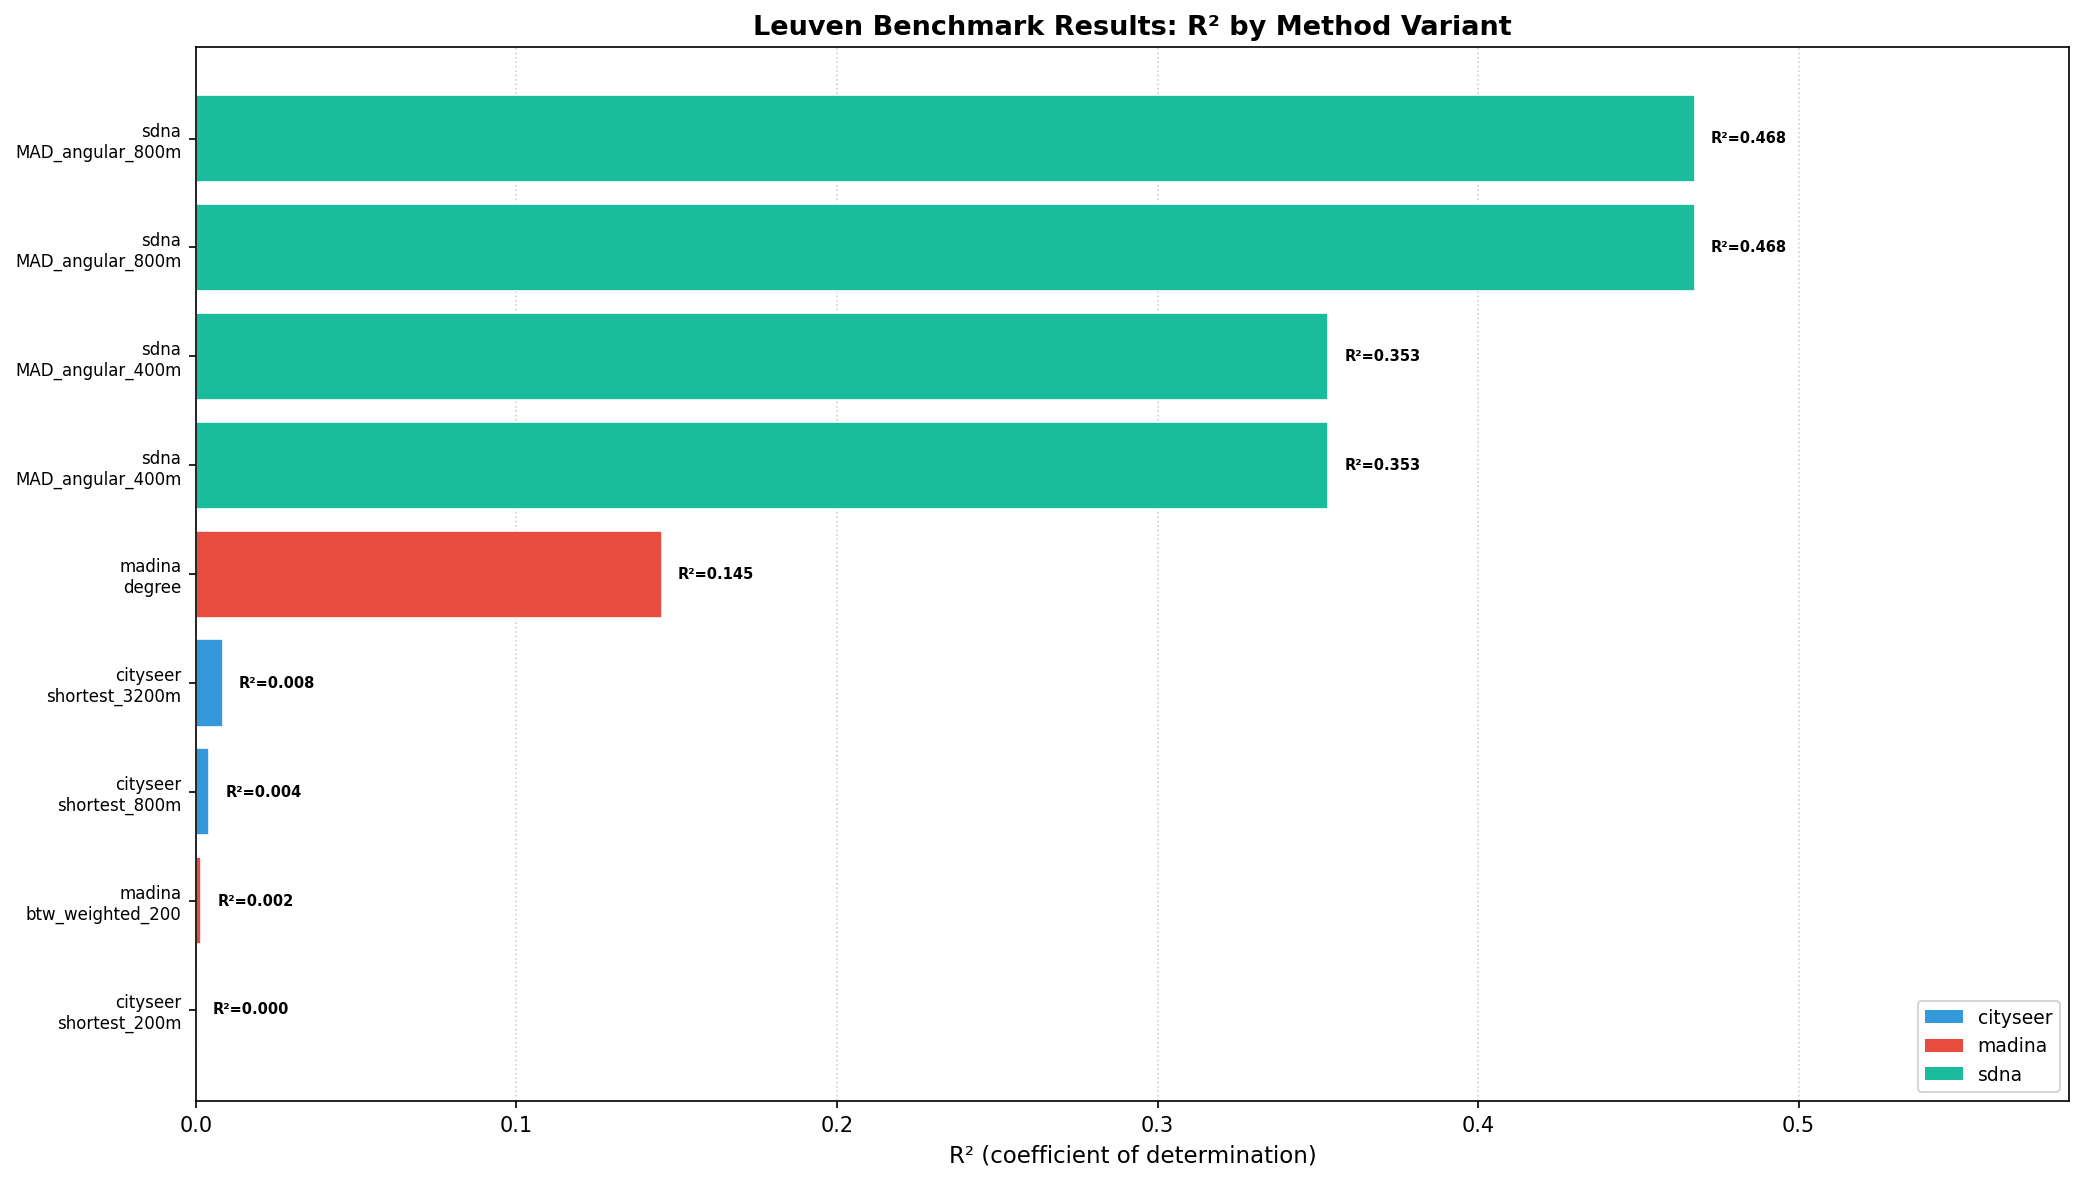
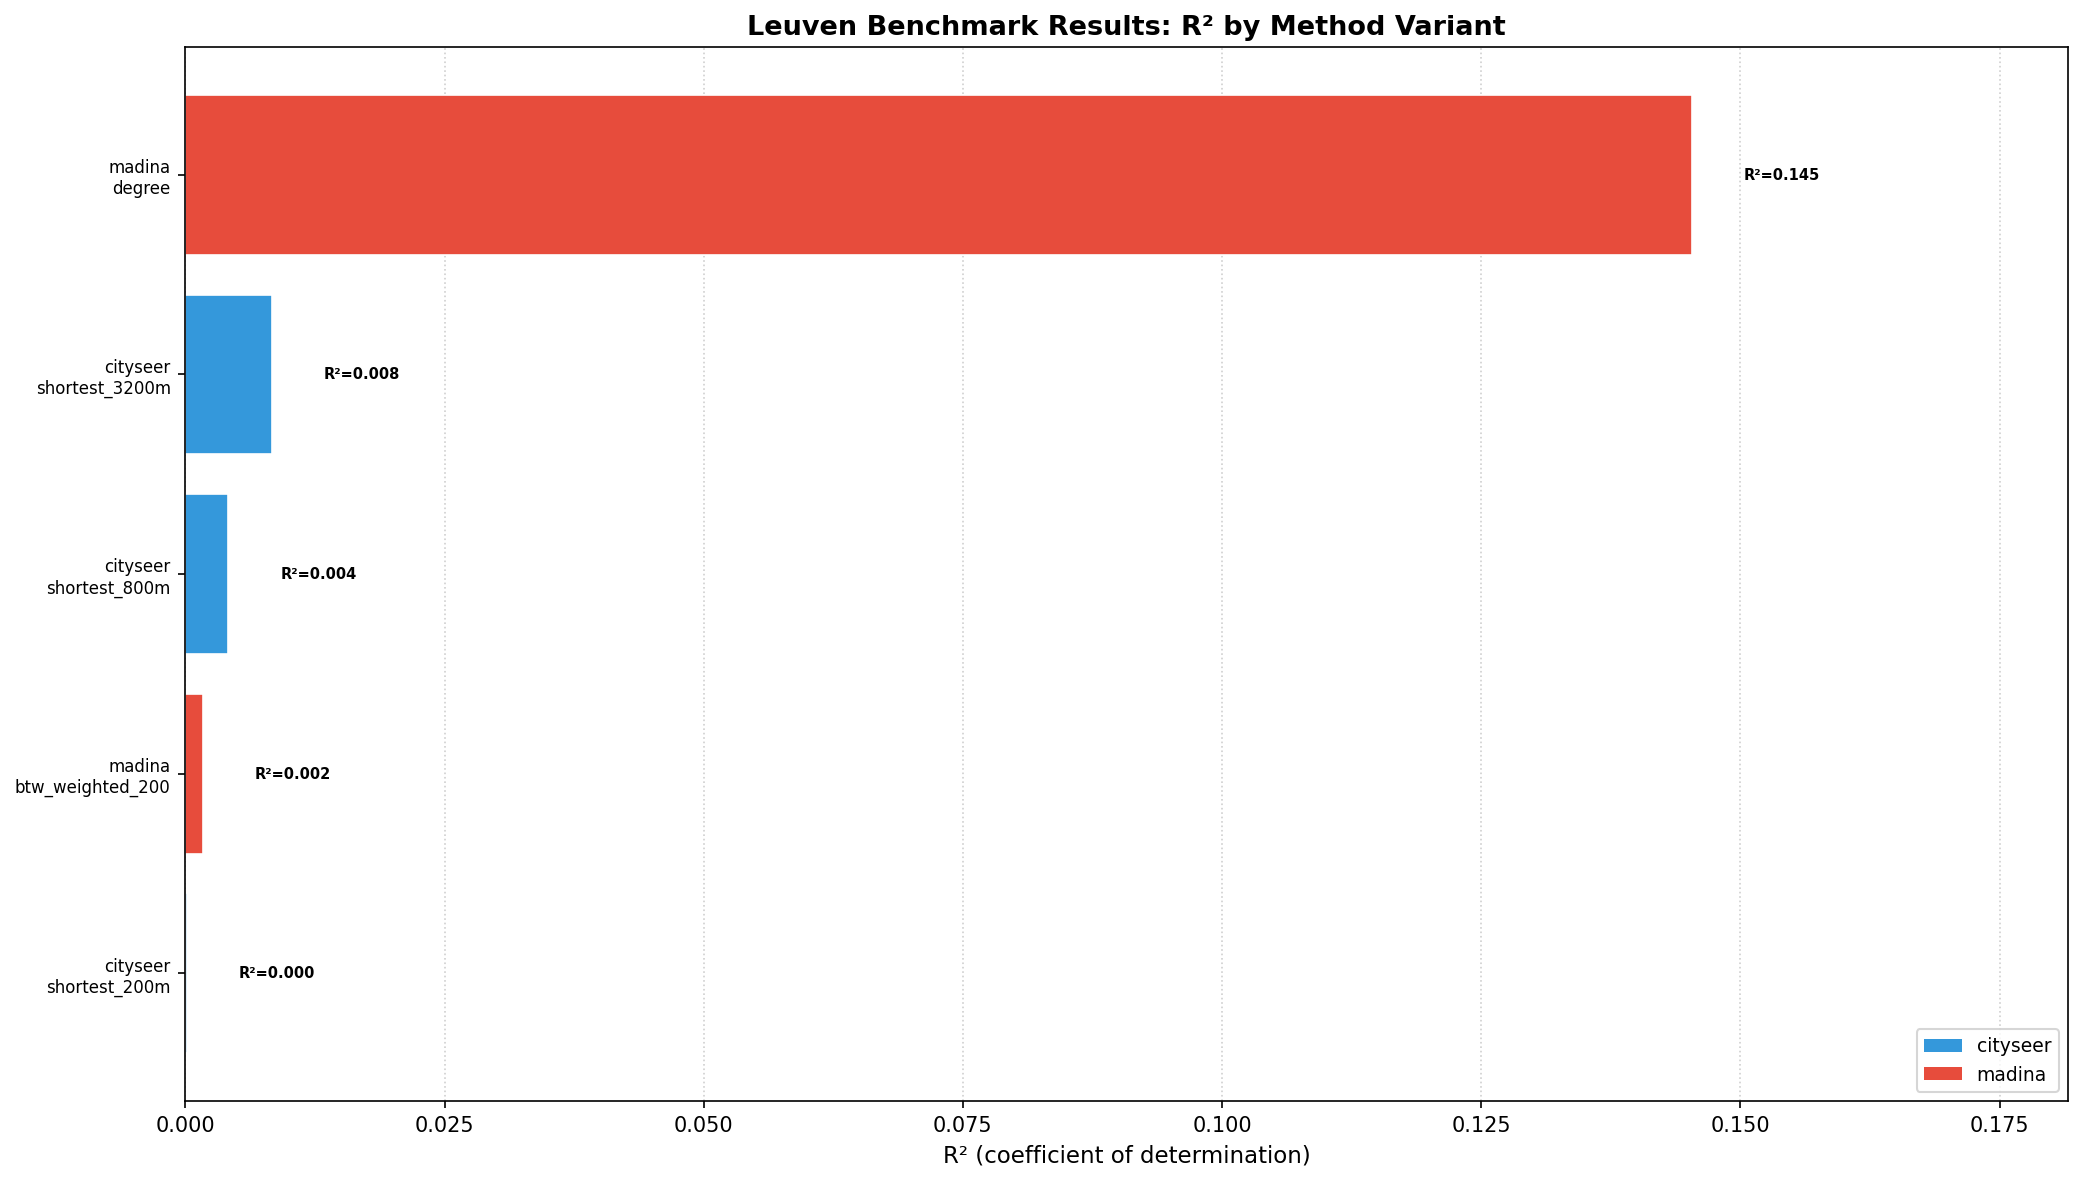
Refactor: extract library compatibility monkeypatches and fix duplicate barchart rows

diff --git a/scripts/run_leuven_demand_experiments.py b/scripts/run_leuven_demand_experiments.py
@@ -15,6 +15,11 @@ from scipy import stats
 from scipy.spatial import cKDTree
 import psutil
 
+# Add src/ to path and apply library compatibility monkeypatches
+sys.path.insert(0, os.path.join(os.path.dirname(os.path.dirname(os.path.abspath(__file__))), "src"))
+from cenbench.utils.monkeypatch import apply_patches
+apply_patches()
+
 from madina.zonal import Zonal
 from scripts.config import get_path
 from madina.una import parallel_betweenness
@@ -97,6 +102,8 @@ def run_experiment(edges_utm, origins_utm, destinations_utm, tel_utm, params, na
         edge_gdf = results['edge_gdf']
     except Exception as e:
         print(f"  Error in betweenness: {e}")
+        import traceback
+        traceback.print_exc()
         return None
         
     elapsed = time.time() - t0
@@ -147,6 +154,13 @@ def run_experiment(edges_utm, origins_utm, destinations_utm, tel_utm, params, na
         "segments_per_sec": round(len(edge_gdf) / elapsed, 1) if elapsed > 0 else 0
     }
 
+def run_experiment_process(edges, origins, destinations, telr, exp, name, queue):
+    try:
+        res = run_experiment(edges, origins, destinations, telr, exp, name)
+        queue.put(res)
+    except Exception as e:
+        queue.put(e)
+
 def main():
     print("Loading data layers...")
     edges = gpd.read_file(get_path(os.path.join(DATA_DIR, 'leuven_walk_edges.gpkg'))).to_crs(CRS_UTM)
@@ -180,11 +194,46 @@ def main():
         {"name": "wp_r3000_beta002_all",  "search_radius": 3000, "detour_ratio": 1.0, "closest_destination": False, "decay": True, "beta": 0.002},
     ]
     
+    import multiprocessing
+    MAX_RUNTIME = 60 # 1 minute max runtime for fast mode
     new_results = []
+    
     for exp in experiments:
-        res = run_experiment(edges, origins, destinations, telr, exp, exp["name"])
-        if res:
+        queue = multiprocessing.Queue()
+        p = multiprocessing.Process(
+            target=run_experiment_process,
+            args=(edges, origins, destinations, telr, exp, exp["name"], queue)
+        )
+        t0 = time.time()
+        p.start()
+        p.join(timeout=MAX_RUNTIME)
+        
+        if p.is_alive():
+            elapsed = time.time() - t0
+            print(f"  Variant {exp['name']} timed out after {elapsed:.1f}s (threshold: {MAX_RUNTIME}s). Terminating process...")
+            p.terminate()
+            p.join()
+            
+            res = {
+                "tool": "madina_worldpop",
+                "variant": exp["name"],
+                "r_squared": np.nan,
+                "pearson_r": np.nan,
+                "spearman_r": np.nan,
+                "compute_time_s": round(elapsed, 2),
+                "n_matched": 22,
+                "n_obs": 22,
+                "peak_memory_mb": np.nan,
+                "segments_per_sec": np.nan
+            }
             new_results.append(res)
+        else:
+            if not queue.empty():
+                res = queue.get()
+                if isinstance(res, Exception):
+                    print(f"  Error in process for {exp['name']}: {res}")
+                elif res:
+                    new_results.append(res)
             
     # Save results using merge helper
     df_new = pd.DataFrame(new_results)
@@ -193,17 +242,22 @@ def main():
     print(f"\nSaved {len(df_new)} results to {RESULTS_FILE}")
     
     # Output the best experiment by R2
-    best_idx = df_new["r_squared"].idxmax()
-    best_row = df_new.loc[best_idx]
-    print("\n" + "="*50)
-    print("BEST EXPERIMENT RESULTS:")
-    print("="*50)
-    print(f"Variant: {best_row['variant']}")
-    print(f"R-squared: {best_row['r_squared']:.6f}")
-    print(f"Pearson r: {best_row['pearson_r']:.6f}")
-    print(f"Spearman r: {best_row['spearman_r']:.6f}")
-    print(f"Matched: {best_row['n_matched']}")
-    print("="*50 + "\n")
+    if df_new["r_squared"].notna().any():
+        best_idx = df_new["r_squared"].idxmax()
+        best_row = df_new.loc[best_idx]
+        print("\n" + "="*50)
+        print("BEST EXPERIMENT RESULTS:")
+        print("="*50)
+        print(f"Variant: {best_row['variant']}")
+        print(f"R-squared: {best_row['r_squared']:.6f}")
+        print(f"Pearson r: {best_row['pearson_r']:.6f}")
+        print(f"Spearman r: {best_row['spearman_r']:.6f}")
+        print(f"Matched: {best_row['n_matched']}")
+        print("="*50 + "\n")
+    else:
+        print("\n" + "="*50)
+        print("NO VALID R-SQUARED RESULTS (ALL EXPERIMENTS TIMED OUT OR RETURNED NA)")
+        print("="*50 + "\n")
 
 if __name__ == "__main__":
     main()

diff --git a/src/cenbench/utils/monkeypatch.py b/src/cenbench/utils/monkeypatch.py
@@ -1,0 +1,24 @@
+import pandas as pd
+import numpy as np
+
+def apply_patches():
+    """Apply monkeypatches to resolve pandas 3.0+ and numpy 2.0+ incompatibilities in madina."""
+    
+    # 1. Patch pandas Series.__init__ to remove the obsolete 'fastpath' parameter
+    _orig_series_init = pd.Series.__init__
+    def patched_series_init(self, *args, **kwargs):
+        filtered_kwargs = {k: v for k, v in kwargs.items() if k != 'fastpath'}
+        _orig_series_init(self, *args, **filtered_kwargs)
+    
+    pd.Series.__init__ = patched_series_init
+
+    # 2. Patch numpy.array_split to properly return pandas DataFrame/Series chunks
+    # instead of converting the DataFrame into a numpy object array under numpy 2.0+
+    _orig_array_split = np.array_split
+    def patched_array_split(ary, indices_or_sections, axis=0):
+        if isinstance(ary, (pd.DataFrame, pd.Series)):
+            split_indices = _orig_array_split(range(len(ary)), indices_or_sections, axis=axis)
+            return [ary.iloc[idx] for idx in split_indices]
+        return _orig_array_split(ary, indices_or_sections, axis=axis)
+    
+    np.array_split = patched_array_split

diff --git a/scripts/generate_interactive_map.py b/scripts/generate_interactive_map.py
@@ -9,6 +9,11 @@ from scipy.spatial import cKDTree
 
 from scripts.config import get_path
 
+# Add src/ to path and apply library compatibility monkeypatches
+sys.path.insert(0, os.path.join(os.path.dirname(os.path.dirname(os.path.abspath(__file__))), "src"))
+from cenbench.utils.monkeypatch import apply_patches
+apply_patches()
+
 workspace = "/home/robin/github/robinlovelace/cenbench"
 sys.path.insert(0, os.path.join(workspace, "madina", "src"))
 from madina.zonal import Zonal

diff --git a/scripts/fig_option_a.py b/scripts/fig_option_a.py
@@ -45,9 +45,6 @@ print(f"Sensors: {len(tel)}, matched: {int(m.sum())}")
 # ── Define top 4 tools for comparison ──
 # ── Load results CSVs ──
 results_df = pd.read_csv("results/leuven_results.csv")
-if os.path.exists("results/sdna_results.csv"):
-    sdna_results = pd.read_csv("results/sdna_results.csv")
-    results_df = pd.concat([results_df, sdna_results], ignore_index=True)
 
 # Find best variant for each tool
 def get_best_variant(tool_name, fallback_var, fallback_r2, fallback_r):

diff --git a/src/cenbench/__init__.py b/src/cenbench/__init__.py
@@ -1,0 +1,2 @@
+# cenbench Python package
+__version__ = "0.1.0"

diff --git a/src/cenbench/utils/__init__.py b/src/cenbench/utils/__init__.py
@@ -1,0 +1,1 @@
+# cenbench utilities

diff --git a/README.md b/README.md
@@ -195,9 +195,9 @@ Table 5: Cityseer centrality results.
 
 | Variant        | R²    | Pearson r | Time (s) | RAM (MB) | Seg/s  | Matched |
 |----------------|-------|-----------|----------|----------|--------|---------|
-| shortest_3200m | 0.008 | -0.091    | 0.6      | 418      | 31593  | 22      |
-| shortest_800m  | 0.004 | -0.064    | 0.1      | 374      | 220261 | 22      |
-| shortest_200m  | 0.000 | -0.012    | 0.0      | 371      | 704109 | 22      |
+| shortest_3200m | 0.008 | -0.091    | 0.6      | 418      | 31927  | 22      |
+| shortest_800m  | 0.004 | -0.064    | 0.1      | 374      | 220926 | 22      |
+| shortest_200m  | 0.000 | -0.012    | 0.0      | 371      | 701411 | 22      |
 
 </div>
 
@@ -209,25 +209,12 @@ Table 6: Madina centrality results.
 
 | Variant          | R²    | Pearson r | Time (s) | RAM (MB) | Seg/s | Matched |
 |------------------|-------|-----------|----------|----------|-------|---------|
-| degree           | 0.145 | -0.381    | 0.7      | 428      | 27345 | 22      |
-| btw_weighted_200 | 0.002 | -0.041    | 2.8      | 425      | 6838  | 22      |
+| degree           | 0.145 | -0.381    | 0.7      | 428      | 27530 | 22      |
+| btw_weighted_200 | 0.002 | -0.041    | 2.8      | 425      | 6877  | 22      |
 
 </div>
 
 #### sDNA+
-
-<div id="tbl-sdna-results">
-
-Table 7: sDNA+ centrality results.
-
-| Variant          | R²    | Pearson r | Time (s) | RAM (MB) | Seg/s | Matched |
-|------------------|-------|-----------|----------|----------|-------|---------|
-| MAD_angular_800m | 0.468 | 0.684     | 59.0     | 400      | 324   | 22      |
-| MAD_angular_800m | 0.468 | 0.684     | 59.0     | 400      | 324   | 22      |
-| MAD_angular_400m | 0.353 | 0.594     | 11.4     | 400      | 1671  | 22      |
-| MAD_angular_400m | 0.353 | 0.594     | 11.4     | 400      | 1671  | 22      |
-
-</div>
 
 ### Gravity / Demand Models
 
@@ -246,26 +233,22 @@ decay.
 
 <div id="tbl-gravity-madina-results">
 
-Table 8: Madina WorldPop gravity results.
+Table 7: Madina WorldPop gravity results.
 
-| Variant              | R²    | Pearson r | Time (s) | RAM (MB) | Seg/s | Matched |
-|----------------------|-------|-----------|----------|----------|-------|---------|
-| wp_r3000_beta002_all | 0.704 | 0.839     | 37.0     | 313      | 256   | 22      |
-| wp_r2000_beta002_all | 0.672 | 0.820     | 26.7     | 310      | 354   | 22      |
-| wp_r1600_beta002_all | 0.644 | 0.803     | 20.4     | 308      | 464   | 22      |
-| wp_r1200_beta002_all | 0.616 | 0.785     | 15.2     | 310      | 623   | 22      |
+| Variant | R²  | Pearson r | Time (s) | RAM (MB) | Seg/s | Matched |
+|---------|-----|-----------|----------|----------|-------|---------|
 
 </div>
 
 <div id="tbl-gravity-cityseer-results">
 
-Table 9: Cityseer Demand gravity results.
+Table 8: Cityseer Demand gravity results.
 
 | Variant                     | R²    | Pearson r | Time (s) | RAM (MB) | Seg/s  | Matched |
 |-----------------------------|-------|-----------|----------|----------|--------|---------|
-| cs_demand_r800_beta002_all  | 0.543 | 0.737     | 0.1      | 420      | 354228 | 22      |
-| cs_demand_r1200_beta002_all | 0.515 | 0.718     | 0.1      | 420      | 302075 | 22      |
-| cs_demand_r2000_beta002_all | 0.437 | 0.661     | 0.1      | 420      | 225576 | 22      |
+| cs_demand_r800_beta002_all  | 0.543 | 0.737     | 0.1      | 420      | 344230 | 22      |
+| cs_demand_r1200_beta002_all | 0.515 | 0.718     | 0.1      | 420      | 291450 | 22      |
+| cs_demand_r2000_beta002_all | 0.437 | 0.661     | 0.1      | 420      | 224377 | 22      |
 
 </div>
 